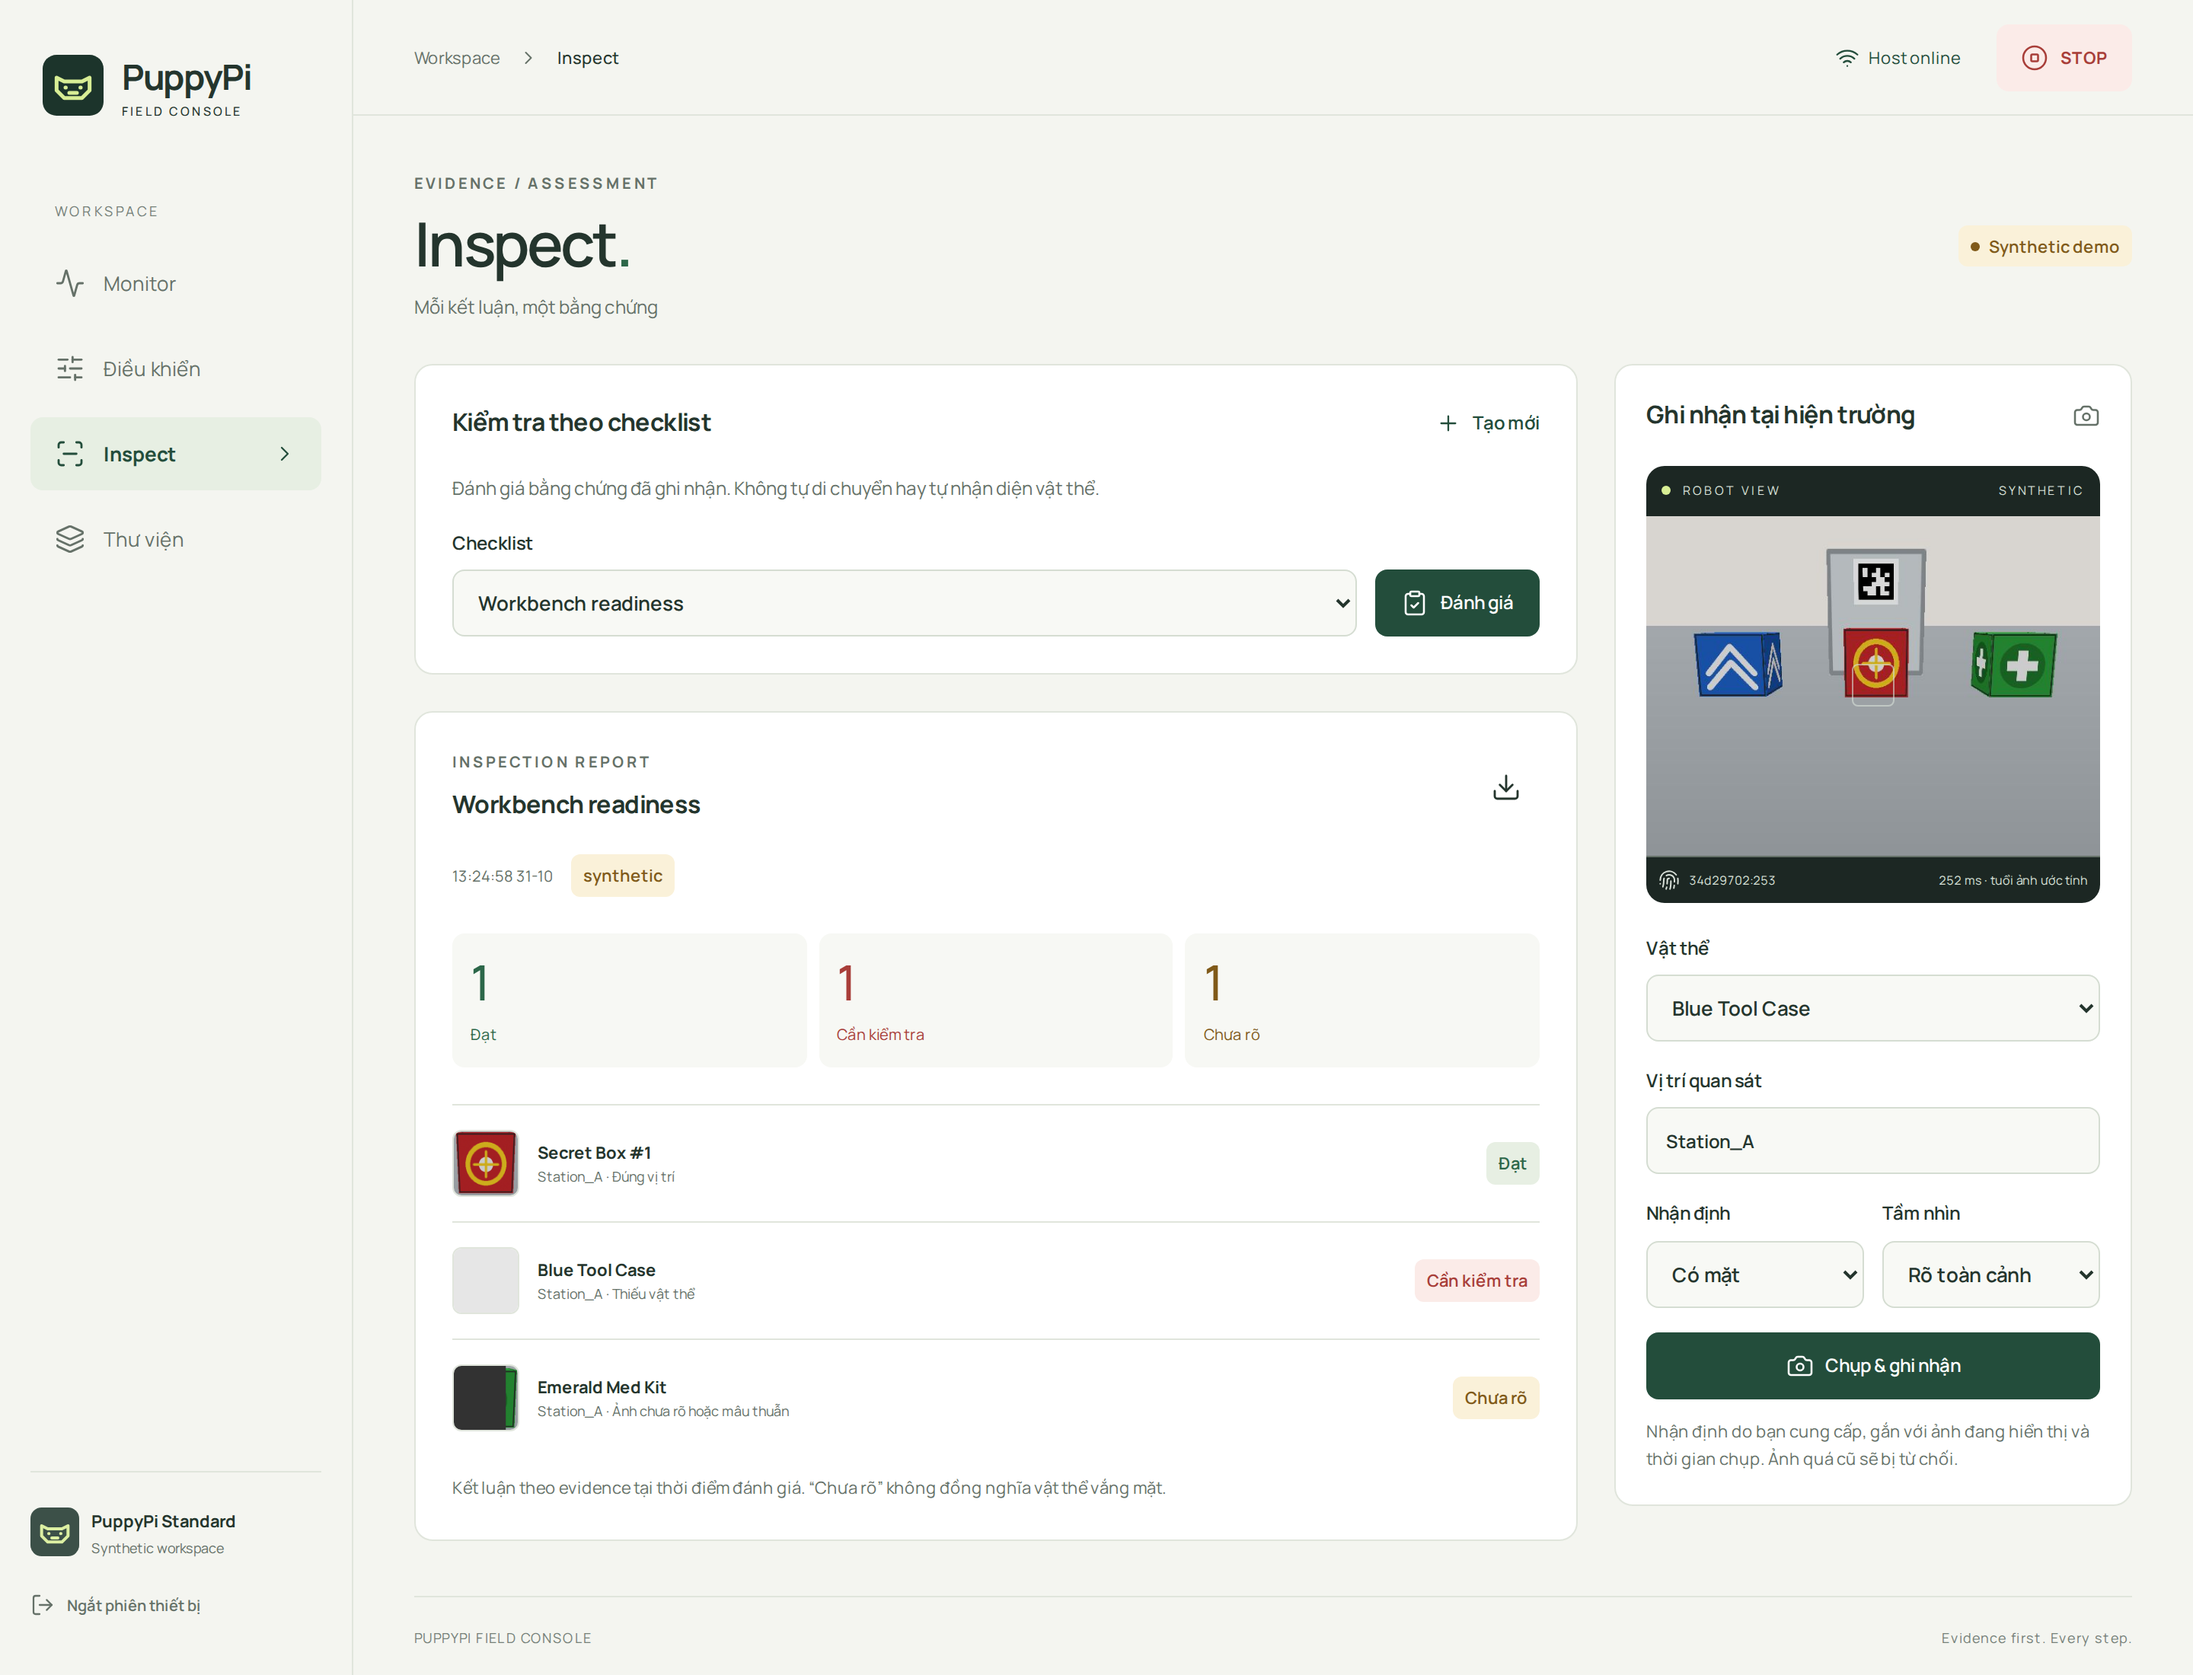
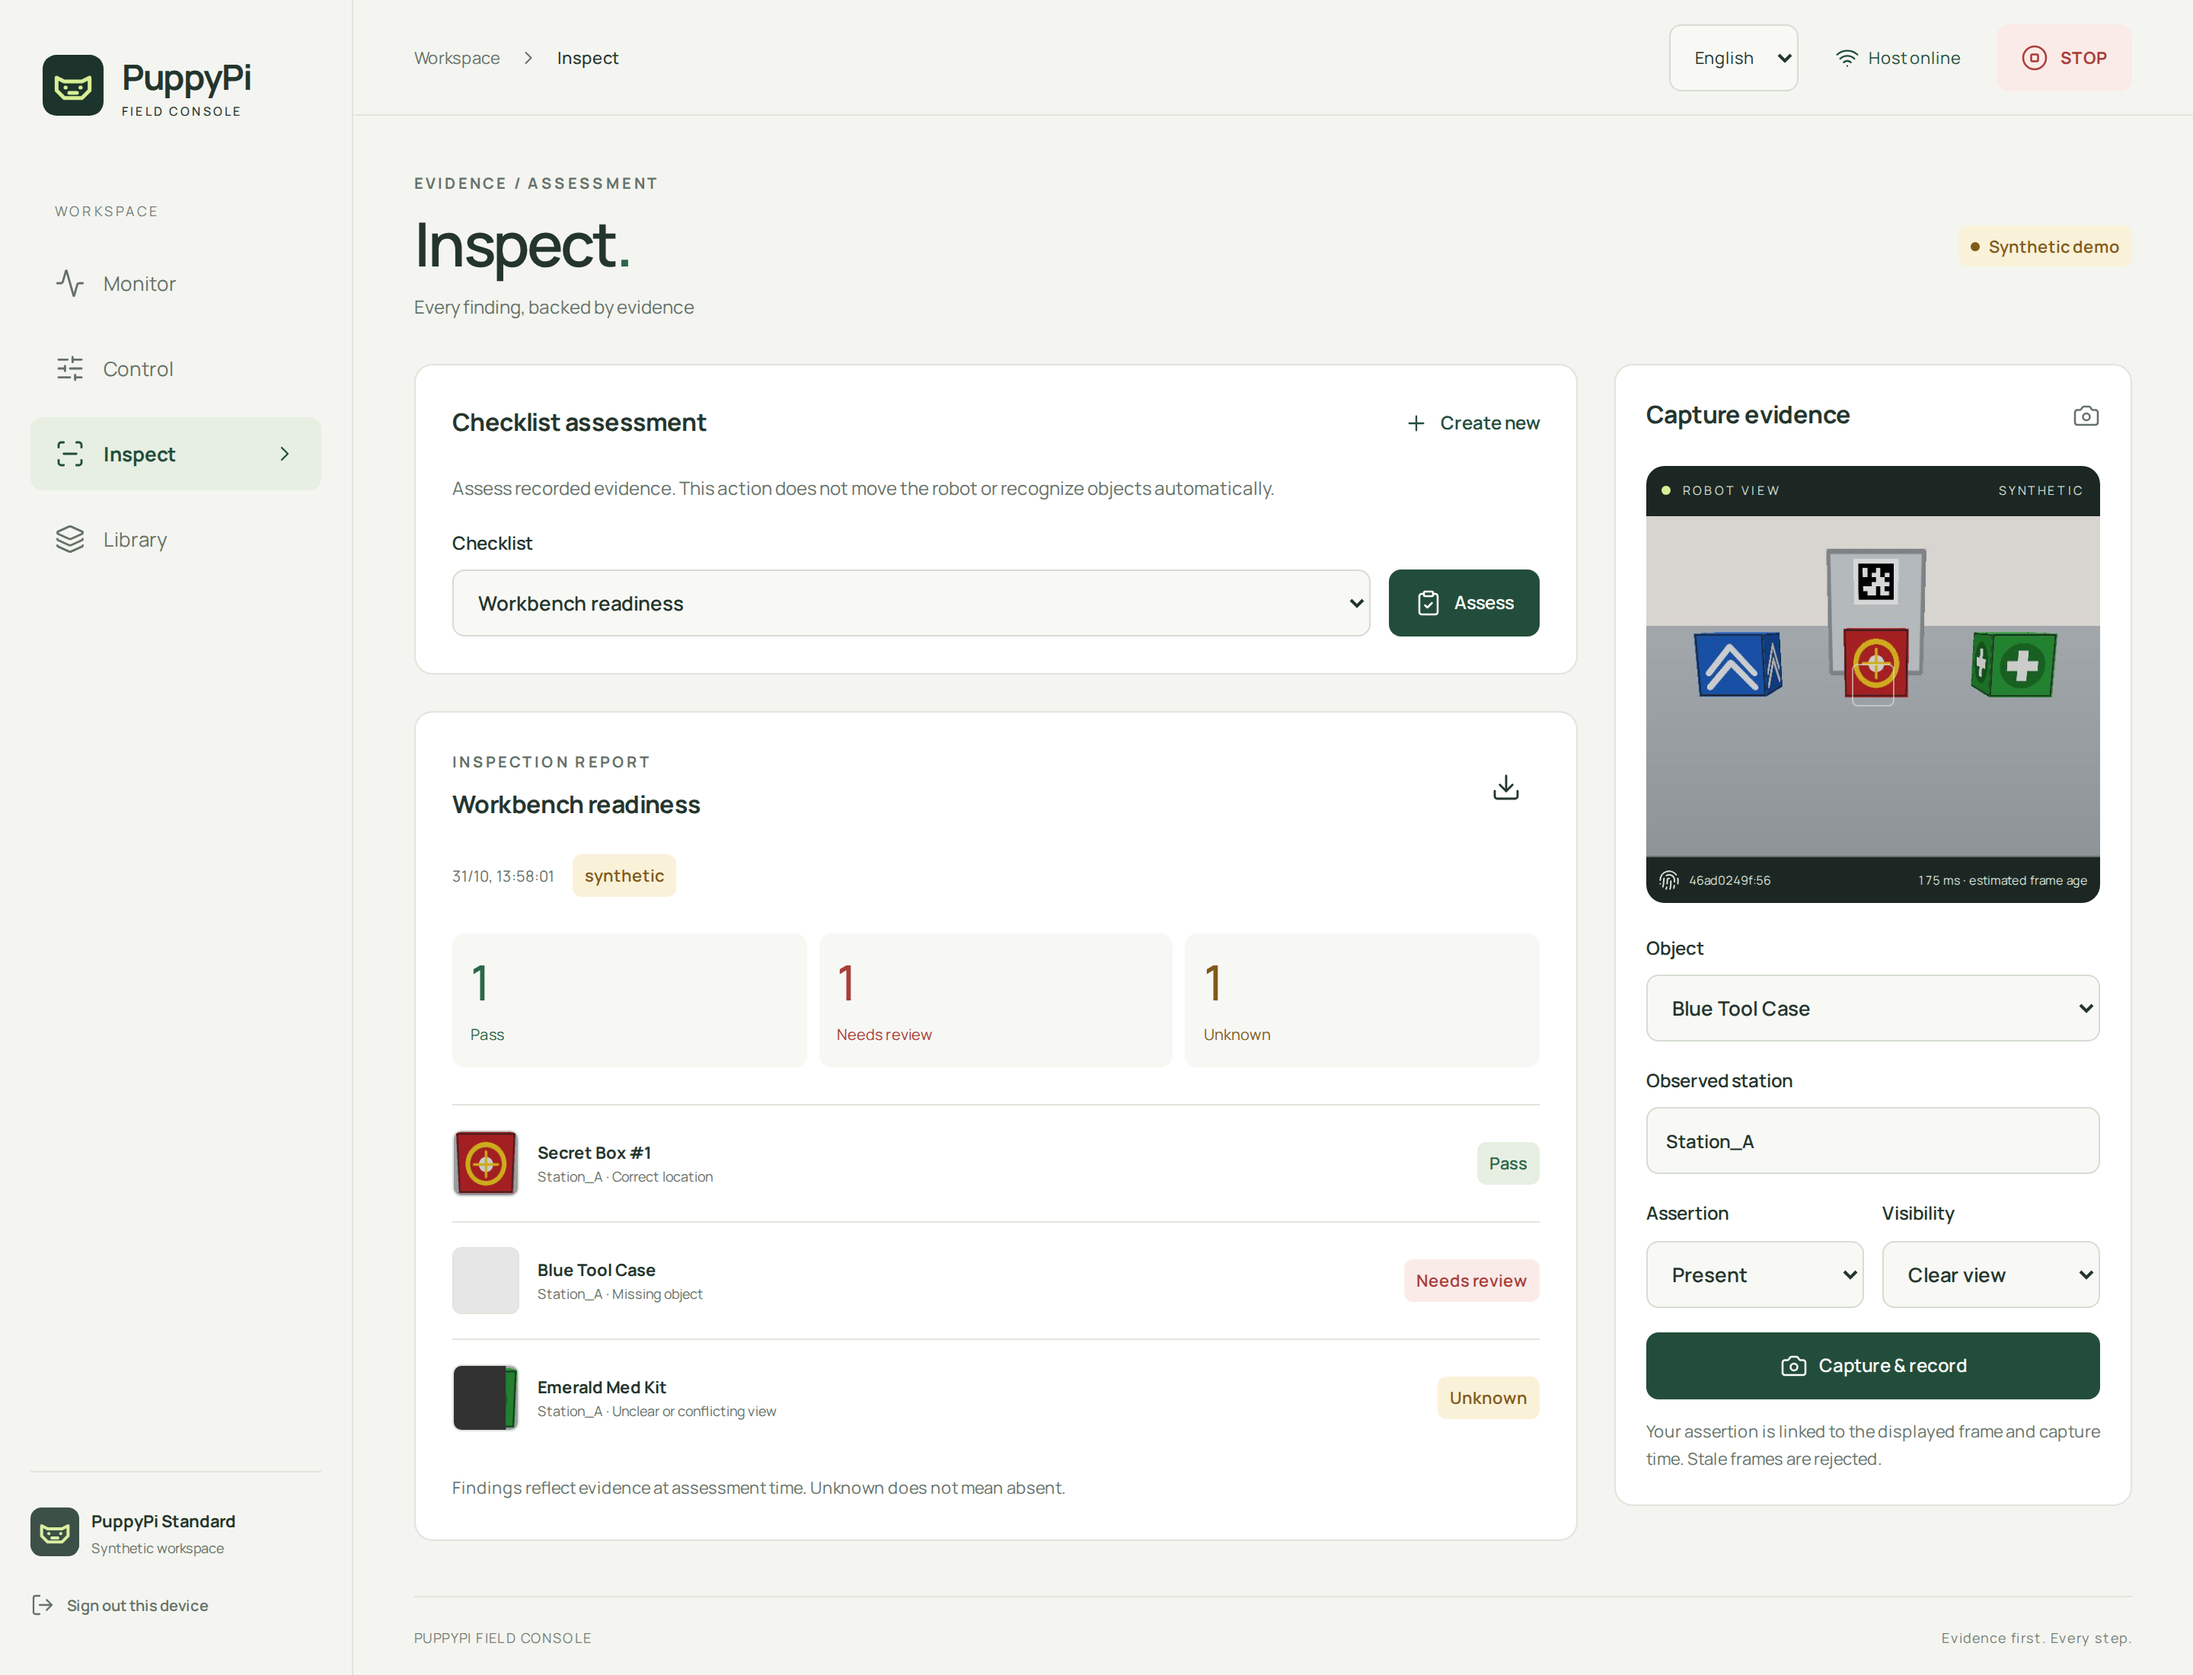
docs(ui): refresh screenshots for the English default interface
Capture all eight documentation views from e0d3aaa in a disposable synthetic workspace. Update English button references, source provenance and the overview gallery. Verified images, local links and server cleanup; make check passes.

diff --git a/docs/diagrams/mobile-ui-gallery.html b/docs/diagrams/mobile-ui-gallery.html
@@ -42,6 +42,6 @@
       <figcaption><h2>04 / Library</h2><p>Teach objects from crops; open their references, observation history and management actions.</p></figcaption>
     </figure>
   </div>
-  <footer>Source: console implementation e85c4f4 · generated from an isolated synthetic workspace · screenshots are interface evidence, not hardware results.</footer>
+  <footer>Source: console implementation e0d3aaa · generated from an isolated synthetic workspace · screenshots are interface evidence, not hardware results.</footer>
 </main>
 </html>

diff --git a/docs/14-mobile-console-gallery.md b/docs/14-mobile-console-gallery.md
@@ -1,9 +1,10 @@
 # Mobile console: screenshot walkthrough
 
 These eight images are **actual application screenshots**, captured from the
-implementation at `e85c4f4` on 2026-10-31 using Chromium and an isolated synthetic
-workspace. They are not UI mockups or physical robot evidence. Technical captions
-are in English; the application's operator labels are in Vietnamese.
+implementation at `e0d3aaa` on 2026-10-31 using Chromium and an isolated synthetic
+workspace. They are not UI mockups or physical robot evidence. The captures use
+the default English interface; Vietnamese is available only through an explicit
+language selection.
 
 Phone viewport: **390 × 844 CSS px**, captured at 2× resolution. Desktop viewport:
 **1440 × 1100 CSS px**, also at 2×. The images are ordinary viewport captures;
@@ -21,8 +22,8 @@ content below the fold is reached by scrolling. Click any image to inspect it.
 
 **Look for:** the synthetic-mode badge, frame identity and estimated age below
 the camera, bottom navigation, and STOP in the header. On Control, the camera and
-direction buttons fit in one viewport. The pictured session is locked; **Mở quyền
-điều khiển** must be pressed before holding a direction. No physical movement was
+direction buttons fit in one viewport. The pictured session is locked; **Arm
+controls** must be pressed before holding a direction. No physical movement was
 performed to capture these screens.
 
 ## 3–4. Evaluate a checklist and manage taught objects
@@ -31,10 +32,10 @@ performed to capture these screens.
 | --- | --- |
 | [![Phone Inspect: saved checklist and pass/fail/unknown summary](screenshots/mobile-console/phone-inspect.png)](screenshots/mobile-console/phone-inspect.png) | [![Phone Library: three taught objects with reference thumbnails](screenshots/mobile-console/phone-library.png)](screenshots/mobile-console/phone-library.png) |
 
-**Look for:** **Đánh giá** to assess recorded evidence, the report download icon,
+**Look for:** **Assess** to assess recorded evidence, the report download icon,
 and the three distinct outcomes. The synthetic fixture intentionally yields one
 pass, one fail and one unknown. This is not a recognition accuracy score.
-Library shows the taught objects and reference counts; **Dạy vật thể** uploads
+Library shows the taught objects and reference counts; **Teach object** uploads
 cropped reference images. Selecting an object opens its history and management
 actions.
 
@@ -44,8 +45,8 @@ actions.
 | --- | --- |
 | [![Phone capture form with object, station, assertion, visibility and save action](screenshots/mobile-console/phone-capture.png)](screenshots/mobile-console/phone-capture.png) | [![Phone object history with reference views, recorded assertion and source label](screenshots/mobile-console/phone-history.png)](screenshots/mobile-console/phone-history.png) |
 
-**Look for:** the object, station, assertion and visibility fields above **Chụp &
-ghi nhận**. The operator supplies the assertion; the app associates it with a
+**Look for:** the object, station, assertion and visibility fields above **Capture
+& record**. The operator supplies the assertion; the app associates it with a
 fresh displayed frame. The form in this screenshot has not been submitted.
 History retains the recorded time, mode, source and image. Its earlier scripted
 absence assertion does not mean the currently displayed camera automatically
@@ -71,7 +72,7 @@ HTML, JSON and source PNG evidence together.
 ## Capture provenance and refreshing these images
 
 All screenshots came from the same fresh temporary database seeded once through
-**Nạp dữ liệu demo**. No user library, private recording, live robot, or paid API
+**Load demo data**. No user library, private recording, live robot, or paid API
 was accessed. The renderer and fixture observations are intentionally independent;
 they are not paired ground-truth labels for an image-recognition evaluation.
 The pairing screen and its code are not included in any image.

diff --git a/docs/handoffs/2026-10-31-handoff.md b/docs/handoffs/2026-10-31-handoff.md
@@ -273,3 +273,9 @@ Desktop/phone screenshots were reviewed. The upstream Starlette/httpx deprecatio
 warning remains. No physical actuation or real-device installation was tested.
 The documentation screenshot gallery is refreshed separately from the UI change
 so its source revision can be recorded accurately.
+
+Refreshed the eight tracked screenshots and overview gallery from UI revision
+`e0d3aaa` using its English default and a fresh disposable synthetic workspace.
+Updated the walkthrough's labels, language explanation and capture provenance.
+Chromium reported no page errors; phone/desktop outputs were visually reviewed.
+The capture server was stopped. Documentation/asset checks pass with `make check`.
